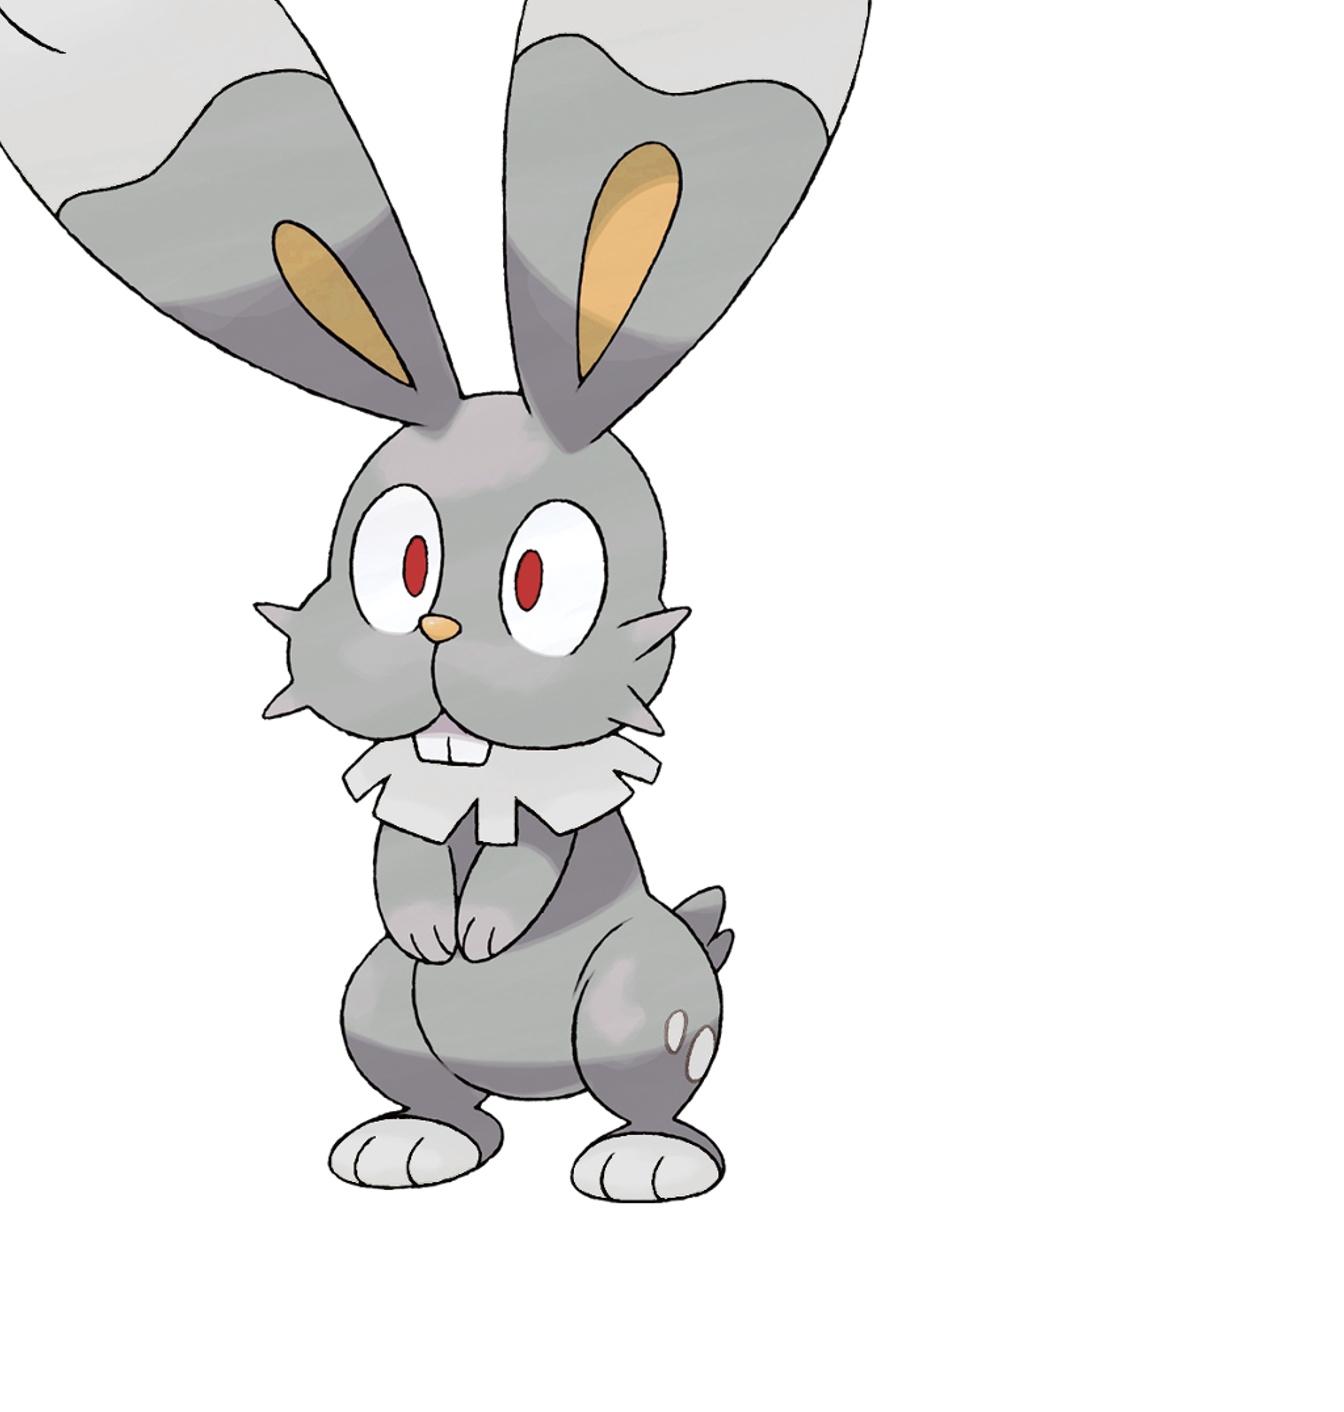
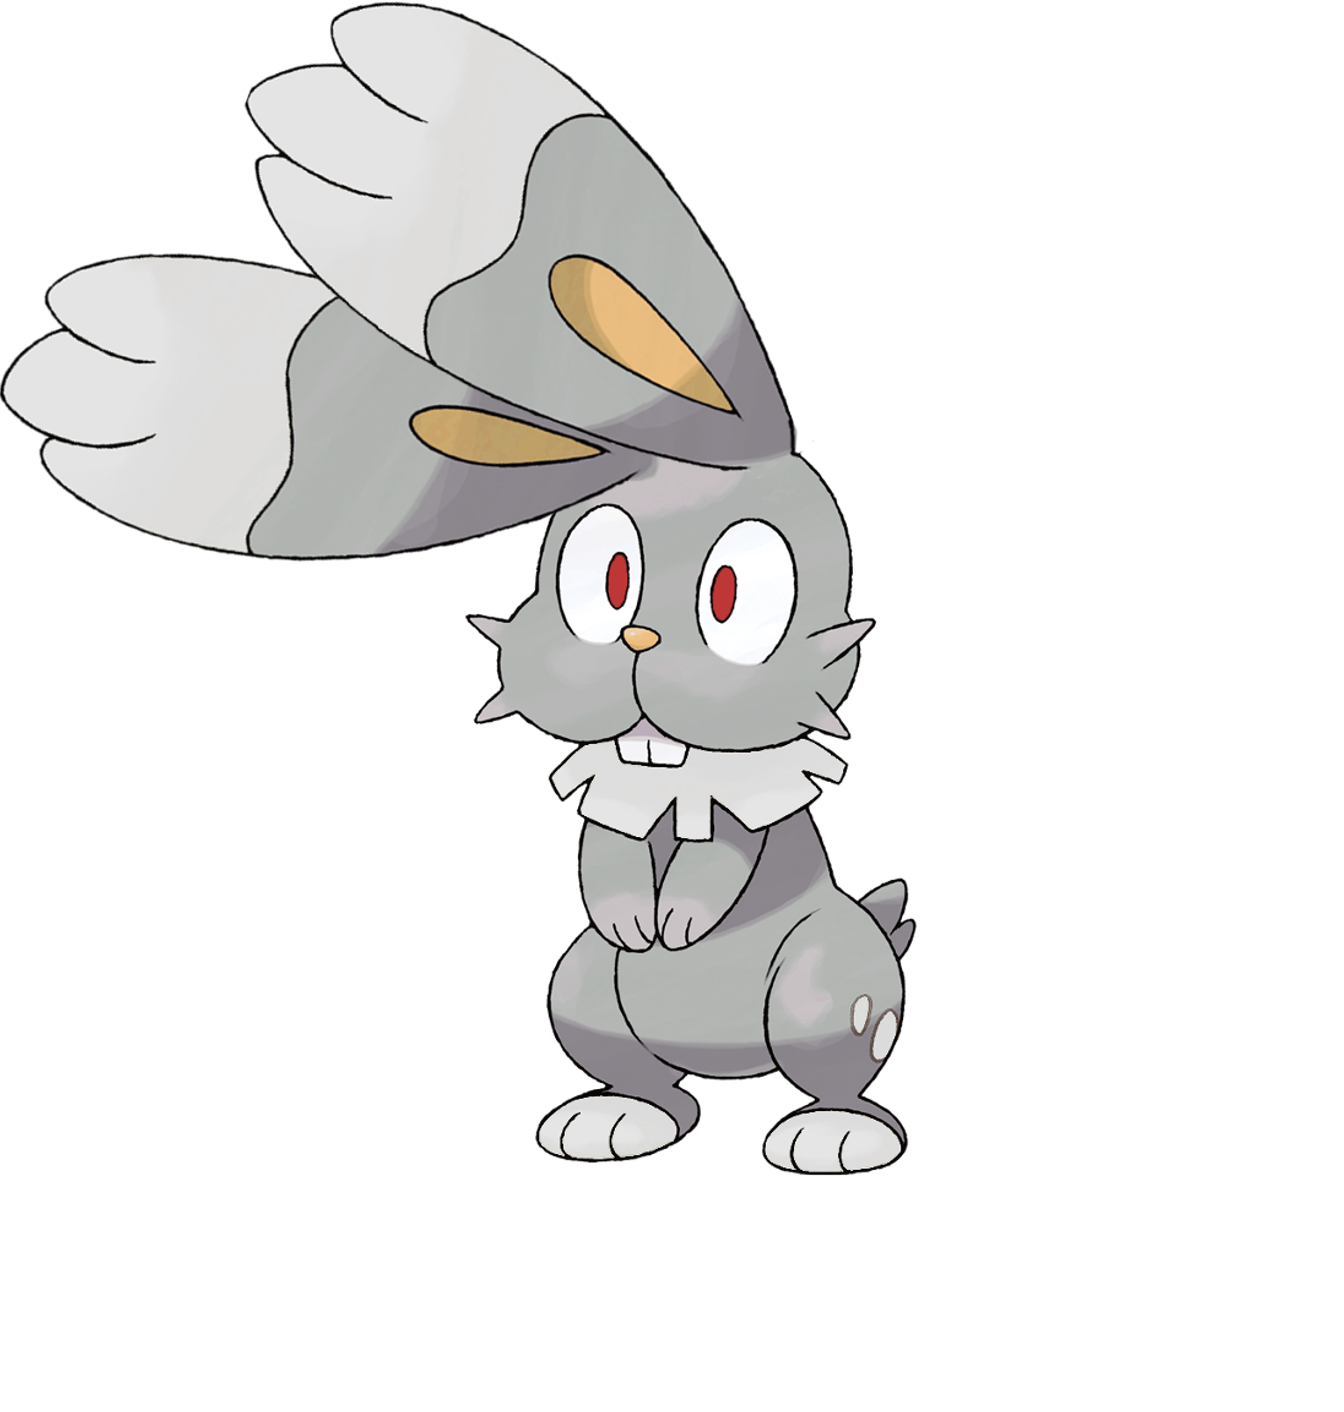
completed

diff --git a/main.css b/main.css
@@ -1,5 +1,6 @@
 html {
   line-height: 1em;
+  margin: 0 !important;
 }
 
 body {
@@ -12,6 +13,7 @@ body {
   background-size: cover;
   background-repeat: no-repeat;
   padding: 0px;
+  height: 100vh;
 }
 
 h1 {
@@ -30,13 +32,15 @@ h1 {
   transform: translateY(1px) rotate(360deg) scale(1.3, 1.3);
 }
 
+
 .div1 {
   background-color: rgba(80, 80, 80, 0.6);
   box-shadow: 1px 1px 20px black;
   transition-duration: 1s;
-  background-image: radial-gradient(transparent, black), url("images/headerbackground.jpg");
+  background-image: url("images/headerbackground.png");
   background-position: right;
   background-repeat: no-repeat;
+  border-bottom-right-radius: 20px;
 }
 
 .div2 {
@@ -57,51 +61,58 @@ h1 {
 .button1:hover {
   background-image: radial-gradient(transparent, black), url("images/rattata_but.png");
   background-position: center;
+  background-repeat: no-repeat;
   box-shadow: 2px 2px 10px black;
 }
 
 .button2:hover {
   background-image: radial-gradient(transparent, black), url("images/bunnelby_but.png");
   background-position: center;
+  background-repeat: no-repeat;
   box-shadow: 2px 2px 10px black;
 }
 
 .button3:hover {
   background-image: radial-gradient(transparent, black), url("images/bidoof_but.png");
   background-position: center;
+  background-repeat: no-repeat;
   box-shadow: 2px 2px 10px black;
 }
 
 .button4:hover {
   background-image: radial-gradient(transparent, black), url("images/zigzagoon_but.png");
   background-position: center;
+  background-repeat: no-repeat;
   box-shadow: 2px 2px 10px black;
 }
 
 .button5:hover {
   background-image: radial-gradient(transparent, black), url("images/patrat_but.png");
   background-position: center;
+  background-repeat: no-repeat;
   box-shadow: 2px 2px 10px black;
 }
 
 .button6:hover {
   background-image: radial-gradient(transparent, black), url("images/zubat_but.png");
   background-position: center;
+  background-repeat: no-repeat;
   box-shadow: 2px 2px 10px black;
 }
 
 .div3 {
   background-color: rgba(226, 99, 68, 0.4);
   background-size: cover;
+  border-top-right-radius: 30px;
   box-shadow: -2px -2px 10px black;
   transition-duration: 1s;
+  height: 300px;
 }
 
 .statsimg {
   position: relative;
-  left: -100px;
+  left: 80px;
   top: -500px;
-  /* width: 80vw; */
   margin: 0;
   padding: 0;
 }
@@ -114,25 +125,14 @@ h1 {
 
 .statsinfo {
   font-size: 1em;
-  background: rgba(0, 0, 0, 0.8);
+  line-height: 20px;
+  background: rgba(0, 0, 0, 0.65);
   padding: 20px;
   z-index: 4;
   border-top-right-radius: 50px;
   width: 300px;
   position: relative;
   left: 20px;
-  top: 20px;
+  top: 35px;
   box-shadow: -2px -2px 10px black;
-}
-
-.hidden {
-  opacity: 0;
-  transition: opacity;
-  transition-duration: 2s;
-}
-
-.reveal {
-  opacity: 1;
-  transition: opacity;
-  transition-duration: 2s;
 }

diff --git a/sass.scss b/sass.scss
@@ -1,0 +1,65 @@
+$desktop: '(min-width: 991px)';
+$medium: '(max-width: 990px)';
+$tiny: '(max-width: 374px)';
+
+p {
+  @media #{$desktop} {
+    font-size: 0.9em;
+  };
+  @media #{$medium} {
+    font-size: 0.7em;
+  }
+}
+
+.pokeball {
+  @media #{$medium} {}
+}
+
+.div2 {
+  @media #{$medium} {
+    display: grid;
+    grid-template-columns: repeat(3, 1fr);
+  }
+}
+
+.div2 {
+  @media #{$medium} {
+    display: grid;
+    grid-template-columns: repeat(2, 1fr);
+    transition-duration: 1s;
+  }
+}
+
+.div2 div {
+  @media #{$medium} {
+    z-index: 5;
+
+  }
+}
+
+.statsimg {
+  @media #{$medium} {
+  // overflow: hidden;
+  }
+}
+
+.statsimg img {
+  @media #{$medium} {
+    max-width: 400px;
+    max-height: 400px;
+    position: relative;
+    left: 20px;
+    top: 250px;
+    z-index: 3;
+  }
+}
+
+.statsinfo {
+  @media #{$medium} {
+    border-top-right-radius: 20px;
+    width: 180px;
+    position: relative;
+    line-height: 12px;
+
+  }
+}

diff --git a/index.html b/index.html
@@ -16,7 +16,7 @@
 
 </head>
 
-<body class="container">
+<body class="container main-box">
   <div class="row">
     <div class="div1 col l6 s12">
       <h1>TRAINER KARL</h1>
@@ -37,13 +37,15 @@
       <div class="statsinfo">
         <p id="showname">&#9668; &nbsp; CHOOSE YOUR POKEMON</p>
         <hr><br>
-        <p id="showhp">Strong Pokémon. Weak Pokémon. That is only the selfish perception of people. Truly skilled trainers should try to win with their favorites. <br><br> - Elite Four Karen</p>
+        <p id="showhp">Strong Pokémon. Weak Pokémon. That is only the selfish perception of people. Truly skilled trainers should try to win with their favorites. <br>- Elite Four Karen</p>
         <p id="showatk"></p>
         <p id="showabilities"></p>
+        <p class="more-button"></p>
       </div>
       <div class="statsimg">
         <img id="showimg"></p>
       </div>
+
     </div>
   </div>
 

diff --git a/main.js b/main.js
@@ -12,17 +12,18 @@ function revealContent() {
   content = document.getElementById('showimg');
 
   content.classList.remove('hidden');
-  content.classList.add('reveal');
   content.classList.add('animated');
-  content.classList.add('tada');
+  content.classList.add('bounceInRight')
+
 
   setTimeout(function() {
 
-    content2 = document.getElementById('showimg');
-    content2.classList.remove('reveal');
-    content2.classList.remove('animated');
-    content2.classList.remove('tada');
-  }, 2000);
+    content = document.getElementById('showimg');
+
+    content.classList.remove('animated');
+    content.classList.remove('bounceInRight');
+
+  }, 1000);
 
 }
 
@@ -44,11 +45,7 @@ function postPokemon(name) {
   newcall.send();
 }
 
-
 // NOW WITH OBJECTS!!
-// NOW WITH OBJECTS!!
-// NOW WITH OBJECTS!!
-
 
 allPokemon = [];
 totalPokemon = 0;

diff --git a/sass.css b/sass.css
@@ -1,3 +1,39 @@
+@media (min-width: 991px) {
+  p {
+    font-size: 0.9em; } }
+@media (max-width: 990px) {
+  p {
+    font-size: 0.7em; } }
 
+@media (max-width: 990px) {
+  .div2 {
+    display: grid;
+    grid-template-columns: repeat(3, 1fr); } }
+
+@media (max-width: 990px) {
+  .div2 {
+    display: grid;
+    grid-template-columns: repeat(2, 1fr);
+    transition-duration: 1s; } }
+
+@media (max-width: 990px) {
+  .div2 div {
+    z-index: 5; } }
+
+@media (max-width: 990px) {
+  .statsimg img {
+    max-width: 400px;
+    max-height: 400px;
+    position: relative;
+    left: 20px;
+    top: 250px;
+    z-index: 3; } }
+
+@media (max-width: 990px) {
+  .statsinfo {
+    border-top-right-radius: 20px;
+    width: 180px;
+    position: relative;
+    line-height: 12px; } }
 
 /*# sourceMappingURL=sass.css.map */
